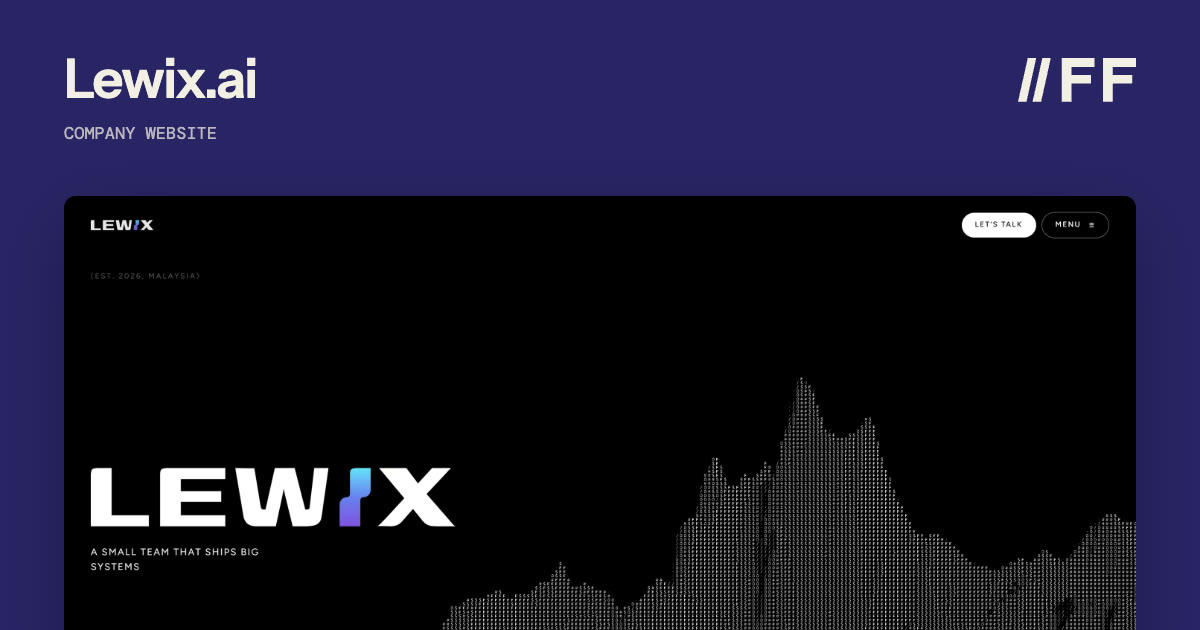
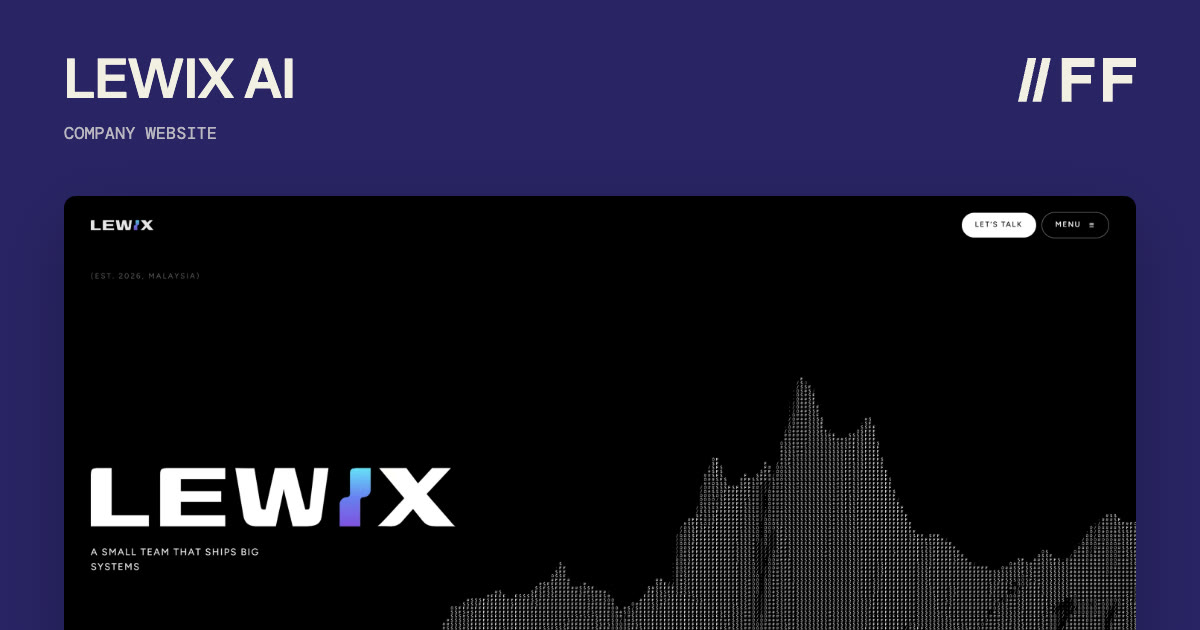
Content: Lewix.ai is written LEWIX AI everywhere (tiles, client, list, about, share card)

Changed region(s): [[0.0617, 0.0905, 0.2467, 0.181]]

diff --git a/src/data.js b/src/data.js
@@ -61,7 +61,7 @@ export const PROJECTS = [
     ],
   },
   {
-    slug: 'lewix-ai', title: 'Lewix.ai', client: 'Lewix.ai', zone: 'product', year: 2026, plate: '#2a2466',
+    slug: 'lewix-ai', title: 'LEWIX AI', client: 'LEWIX AI', zone: 'product', year: 2026, plate: '#2a2466',
     features: ['website', 'webgl', 'motion'], stack: ['next', 'three', 'gsap'], url: 'https://lewix.ai/',
     type: 'Company website', role: 'Art direction / Frontend / WebGL',
     statement: 'A one-page site carried by a single generative environment instead of a stack of sections.',
@@ -71,7 +71,7 @@ export const PROJECTS = [
     ],
   },
   {
-    slug: 'smoothsail', title: 'SmoothSail', client: 'Lewix.ai', zone: 'product', year: 2026, plate: '#cfe4da',
+    slug: 'smoothsail', title: 'SmoothSail', client: 'LEWIX AI', zone: 'product', year: 2026, plate: '#cfe4da',
     features: ['platform', 'e-commerce', 'website'], stack: ['next', 'postgres'], url: 'https://smoothsail.my/',
     type: 'Product site & store builder', role: 'Product design / Frontend / Architecture',
     statement: 'A store builder for Malaysian sellers, sold on real interface states rather than a feature list.',
@@ -101,7 +101,7 @@ export const PROJECTS = [
     ],
   },
   {
-    slug: 'lewix-my', title: 'Lewix', client: 'Lewix.ai', zone: 'product', year: 2026, plate: '#c9d0f2',
+    slug: 'lewix-my', title: 'Lewix', client: 'LEWIX AI', zone: 'product', year: 2026, plate: '#c9d0f2',
     features: ['website', 'motion', 'brand'], stack: ['next', 'gsap'], url: 'https://lewix.my/',
     type: 'Company website', role: 'Art direction / Design / Frontend / Motion',
     statement: 'The front door of an AI product studio, built to read as capable before a feature is described.',

diff --git a/src/pages.js b/src/pages.js
@@ -109,7 +109,7 @@ export function about(tab = 'studio') {
       </div>`).join('')}
     <div class="band" style="margin-top:80px">${['ff-frames', 'ff-shoots', 'ascend-peptides'].map((s) => `<img src="${media(pick(s)).rows.find((r) => r.kind === 'trio').items[0].sm}" alt="" loading="lazy">`).join('')}</div>
     <section class="a-row a-block" style="padding-bottom:40px"><p class="mono">Clients</p><div class="content"><p class="statement reveal">${split('From industrial suppliers to research catalogues and product companies — every one of them talks to the person building their site.')}</p></div></section>
-    <ul class="clients">${['Sunlight Supplies', 'TGS Furnishings', 'Ascend Peptides', 'Lewix.ai'].map((c) => `<li>${esc(c)}</li>`).join('')}</ul>
+    <ul class="clients">${['Sunlight Supplies', 'TGS Furnishings', 'Ascend Peptides', 'LEWIX AI'].map((c) => `<li>${esc(c)}</li>`).join('')}</ul>
     <section class="a-row a-block" style="padding-bottom:0;margin-top:150px"><p class="mono">Our Studio</p><div class="content"><h2 class="sub-title" style="font-size:clamp(2rem,3vw,3rem);text-transform:none">One studio, in Kuala Lumpur</h2></div></section>
     <div class="studios">
       <div class="mark">${MARK}</div>
